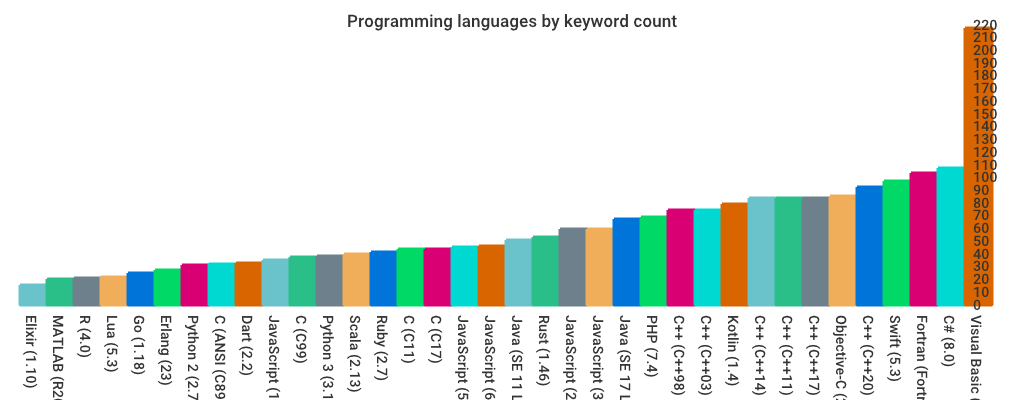
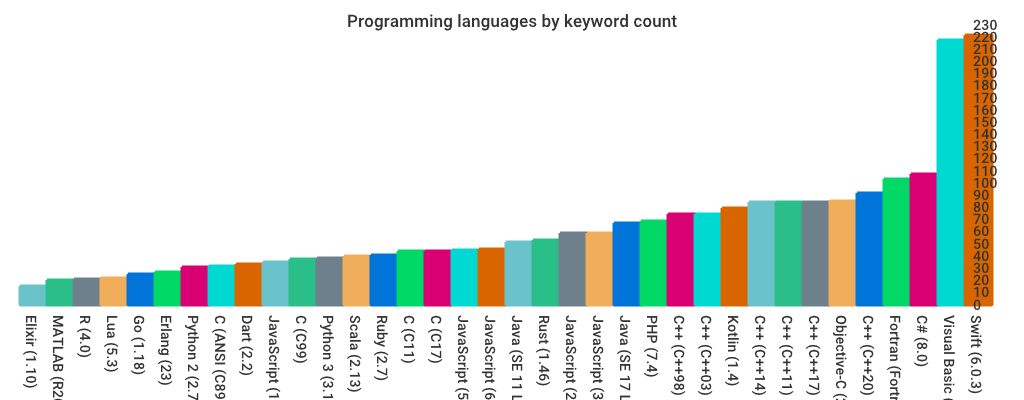
Update Swift.

diff --git a/chart.go b/chart.go
@@ -98,6 +98,9 @@ func main() {
 		log.Fatal(err)
 	}
 	err = yaml.Unmarshal(dataBytes, &data)
+	if len(data) == 0 {
+		log.Fatal("len is 0")
+	}
 	sort.Sort(data)
 
 	//render and save the chart

diff --git a/README.md b/README.md
@@ -61,7 +61,7 @@ Don't see a language here? Please open a pull request adding it!
 * [Ruby (2.7) (41 keywords)](#ruby-27-41-keywords)
 * [Rust (1.46) (53 keywords)](#rust-146-53-keywords)
 * [Scala (2.13) (40 keywords)](#scala-213-40-keywords)
-* [Swift (5.3) (97 keywords)](#swift-53-97-keywords)
+* [Swift (6.0.3) (221 keywords)](#swift-603-221-keywords)
 * [Visual Basic (2019) (217 keywords)](#visual-basic-2019-217-keywords)
 
 ### C (ANSI (C89)) (32 keywords)
@@ -804,39 +804,70 @@ Don't see a language here? Please open a pull request adding it!
 #### Sources:
 
 [https://scala-lang.org/files/archive/spec/2.13/01-lexical-syntax.html](https://scala-lang.org/files/archive/spec/2.13/01-lexical-syntax.html)
-### Swift (5.3) (97 keywords)
+### Swift (6.0.3) (221 keywords)
 | | | | |
 |---|---|---|---|
-|  associatedtype | class | deinit | enum |
-|  extension | fileprivate | func | import |
-|  init | inout | internal | let |
-|  open | operator | private | protocol |
-|  public | rethrows | static | struct |
-|  subscript | typealias | var | break |
-|  case | continue | default | defer |
-|  do | else | fallthrough | for |
-|  guard | if | in | repeat |
-|  return | switch | where | while |
-|  as | Any | catch | false |
-|  is | nil | super | self |
-|  Self | throw | throws | true |
-|  try | _ | #available | #colorLiteral |
-|  #column | #else | #elseif | #endif |
-|  #error | #file | #filePath | #fileLiteral |
-|  #function | #if | #imageLiteral | #line |
-|  #selector | #sourceLocation | #warning | associativity |
-|  convenience | dynamic | didSet | final |
-|  get | infix | indirect | lazy |
-|  left | mutating | none | nonmutating |
-|  optional | override | postfix | precedence |
-|  prefix | Protocol | required | right |
-|  set | Type | unowned | weak |
-|  willSet |
+|  __consuming | __owned | __setter_access | __shared |
+|  _alignment | _backDeploy | _borrow | _borrowing |
+|  _BridgeObject | _cdecl | _Class | _compilerInitialized |
+|  _const | _consuming | _documentation | _dynamicReplacement |
+|  _effects | _expose | _forward | _implements |
+|  _linear | _local | _modify | _move |
+|  _mutating | _NativeClass | _NativeRefCountedObject | _noMetadata |
+|  _nonSendable | _objcImplementation | _objcRuntimeName | _opaqueReturnTypeOf |
+|  _optimize | _originallyDefinedIn | _PackageDescription | _private |
+|  _projectedValueProperty | _read | _RefCountedObject | _semantics |
+|  _specialize | _spi | _spi_available | _swift_native_objc_runtime_base |
+|  _Trivial | _TrivialAtMost | _TrivialStride | _typeEraser |
+|  _unavailableFromAsync | _underlyingVersion | _UnknownLayout | _version |
+|  abi | accesses | actor | addressWithNativeOwner |
+|  addressWithOwner | any | Any | as |
+|  assignment | associatedtype | associativity | async |
+|  attached | autoclosure | availability | available |
+|  await | backDeployed | before | block |
+|  borrow | borrowing | break | canImport |
+|  case | catch | class | compiler |
+|  consume | copy | consuming | continue |
+|  convenience | convention | cType | default |
+|  defer | deinit | dependsOn | deprecated |
+|  derivative | didSet | differentiable | distributed |
+|  do | dynamic | each | else |
+|  enum | escaping | exclusivity | exported |
+|  extension | fallthrough | false | file |
+|  fileprivate | final | for | discard |
+|  forward | func | freestanding | get |
+|  guard | higherThan | if | import |
+|  in | indirect | infix | init |
+|  initializes | inline | inout | internal |
+|  introduced | is | isolated | kind |
+|  lazy | left | let | line |
+|  linear | lowerThan | macro | message |
+|  metadata | modify | module | mutableAddressWithNativeOwner |
+|  mutableAddressWithOwner | mutating | nil | noasync |
+|  noDerivative | noescape | none | nonisolated |
+|  nonmutating | objc | obsoleted | of |
+|  open | operator | optional | override |
+|  package | postfix | precedencegroup | preconcurrency |
+|  prefix | private | Protocol | protocol |
+|  public | read | reasync | renamed |
+|  repeat | required | rethrows | retroactive |
+|  return | reverse | right | safe |
+|  scoped | self | sending | Self |
+|  Sendable | set | some | sourceFile |
+|  spi | spiModule | static | struct |
+|  subscript | super | swift | switch |
+|  target | then | throw | throws |
+|  transpose | true | try | Type |
+|  typealias | unavailable | unchecked | unowned |
+|  unsafe | unsafeAddress | unsafeMutableAddress | var |
+|  visibility | weak | where | while |
+|  willSet | witness_method | wrt | x |
+|  yield |
 
 
 #### Sources:
 
-[https://docs.swift.org/swift-book/ReferenceManual/LexicalStructure.html](https://docs.swift.org/swift-book/ReferenceManual/LexicalStructure.html)
+[https://github.com/swiftlang/swift-syntax/blob/4ed73b13d0b235c96dad9efc676820efc83fe435/CodeGeneration/Sources/SyntaxSupport/KeywordSpec.swift#L77](https://github.com/swiftlang/swift-syntax/blob/4ed73b13d0b235c96dad9efc676820efc83fe435/CodeGeneration/Sources/SyntaxSupport/KeywordSpec.swift#L77)
 ### Visual Basic (2019) (217 keywords)
 | | | | |
 |---|---|---|---|
